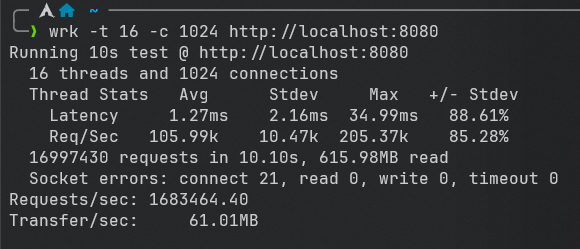
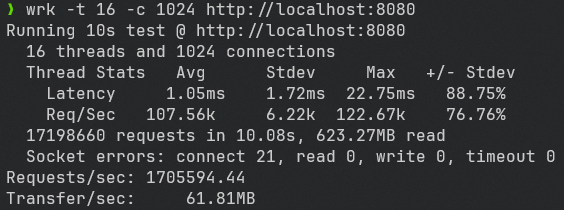
使用likely和unlikely改善分支预测

diff --git a/src/http/HttpParse.cpp b/src/http/HttpParse.cpp
@@ -47,13 +47,13 @@ auto HttpParse::clear() noexcept -> void {
 
 auto HttpParse::parseVersion() -> void {
     const std::string_view version{this->httpRequest.getVersion()};
-    if (version != "HTTP/1.1") {
-        this->httpResponse.setVersion("HTTP/1.1");
-        this->httpResponse.setStatusCode("505 HTTP Version Not Supported");
-    } else {
+    if (version == "HTTP/1.1") {
         this->httpResponse.setVersion(version);
 
         this->parseMethod();
+    } else {
+        this->httpResponse.setVersion("HTTP/1.1");
+        this->httpResponse.setStatusCode("505 HTTP Version Not Supported");
     }
 }
 
@@ -156,7 +156,7 @@ auto HttpParse::parseResource(const std::string &resourcePath) -> void {
             this->httpResponse.clearHeaders();
 
             return;
-        } else {
+        } else [[likely]] {
             this->httpResponse.setStatusCode("206 Partial Content");
             this->httpResponse.addHeader("Content-Range: bytes " + stringStart + '-' + stringEnd + '/' +
                                          std::to_string(resourceSize));
@@ -167,7 +167,7 @@ auto HttpParse::parseResource(const std::string &resourcePath) -> void {
                                      std::to_string(resourceSize));
 
         range = {0, maxSize - 1};
-    } else {
+    } else [[likely]] {
         this->httpResponse.setStatusCode("200 OK");
 
         range = {0, resourceSize - 1};

diff --git a/src/coroutine/Scheduler.cpp b/src/coroutine/Scheduler.cpp
@@ -225,7 +225,7 @@ auto Scheduler::cancel(int fileDescriptor, std::source_location sourceLocation) 
     if (fileDescriptor == this->logger->getFileDescriptor()) outcome = co_await this->logger->cancel();
     else if (fileDescriptor == this->server.getFileDescriptor()) outcome = co_await this->server.cancel();
     else if (fileDescriptor == this->timer.getFileDescriptor()) outcome = co_await this->timer.cancel();
-    else outcome = co_await this->clients.at(fileDescriptor).cancel();
+    else [[likely]] outcome = co_await this->clients.at(fileDescriptor).cancel();
 
     if (outcome.result < 0)
         this->logger->push(Log{Log::Level::warn, std::strerror(std::abs(outcome.result)), sourceLocation});
@@ -238,7 +238,7 @@ auto Scheduler::close(int fileDescriptor, std::source_location sourceLocation) -
     if (fileDescriptor == this->logger->getFileDescriptor()) outcome = co_await this->logger->close();
     else if (fileDescriptor == this->server.getFileDescriptor()) outcome = co_await this->server.close();
     else if (fileDescriptor == this->timer.getFileDescriptor()) outcome = co_await this->timer.close();
-    else {
+    else [[likely]] {
         outcome = co_await this->clients.at(fileDescriptor).close();
         this->clients.erase(fileDescriptor);
     }

diff --git a/src/ring/Ring.cpp b/src/ring/Ring.cpp
@@ -158,7 +158,7 @@ auto Ring::submit(const Submission &submission) -> void {
 
                 break;
             }
-        case 4:
+        [[likely]] case 4:
             {
                 const auto &parameter{std::get<Submission::Send>(submission.parameter)};
                 io_uring_prep_send_zc(sqe, submission.fileDescriptor, parameter.buffer.data(), parameter.buffer.size(),

diff --git a/src/http/HttpRequest.cpp b/src/http/HttpRequest.cpp
@@ -10,7 +10,7 @@ HttpRequest::HttpRequest(std::string_view request) {
             this->parseLine(request.substr(0, result));
 
             request.remove_prefix(result + 2);
-        } else if (result == 0) {
+        } else [[unlikely]] if (result == 0) {
             bodyParsed = true;
             this->body = request.substr(2);
         } else {

diff --git a/README.md b/README.md
@@ -84,7 +84,7 @@ Arch WSL
 利用[wrk](https://github.com/wg/wrk)测试，测试结果如下  
 ![image](show/test.png)
 
-RPS:168万（每秒处理的请求数量）
+RPS:170万（每秒处理的请求数量）
 
 wrk是一款现代HTTP基准测试工具，在单核CPU上运行时能够产生巨大的负载。它将多线程设计与可扩展的事件通知系统（如epoll和kqueue）相结合
 
